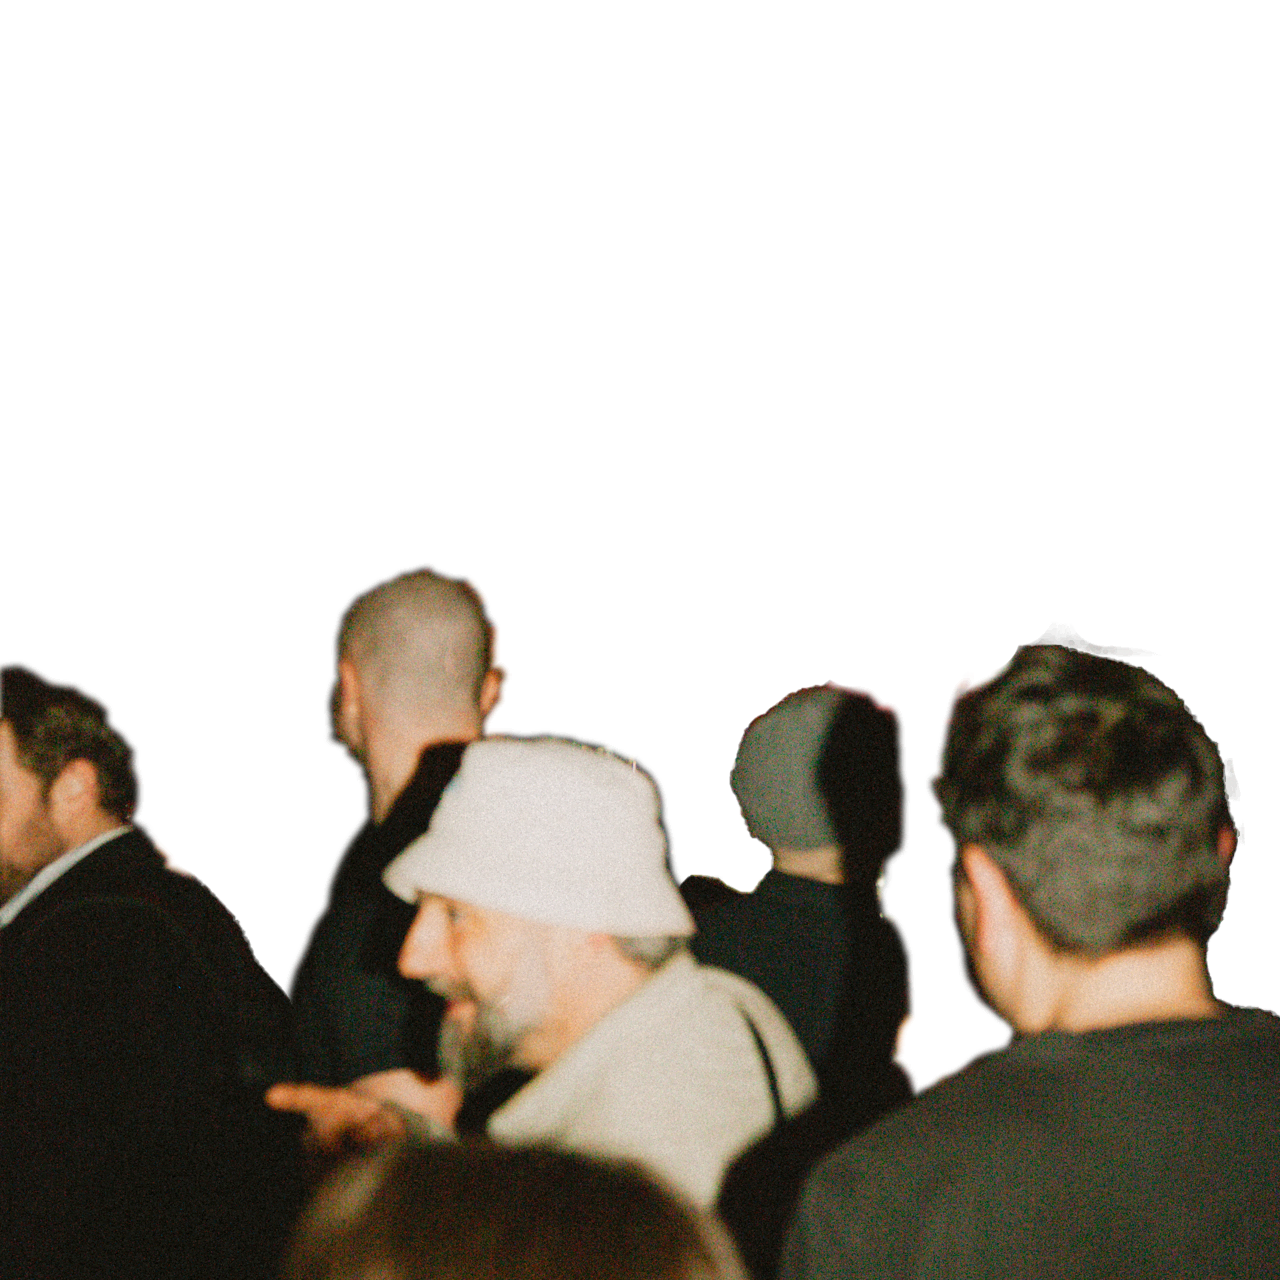
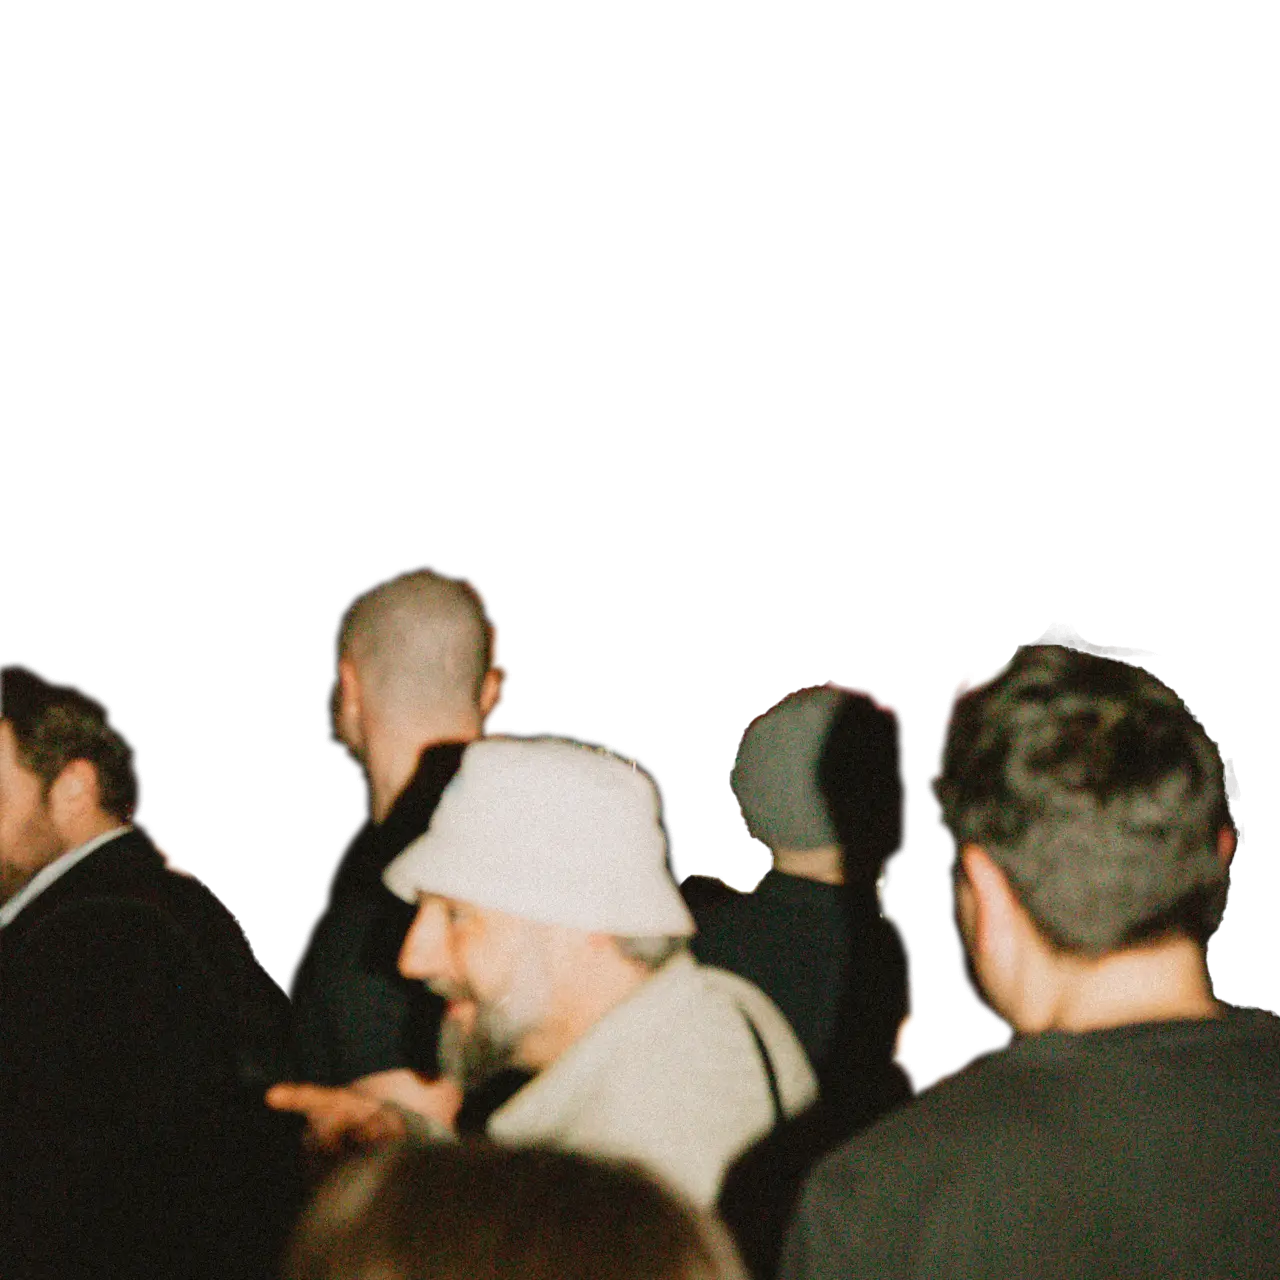
perf: improve Stories page Lighthouse score
- Compress spinne_front.webp: 670 KiB → 94 KiB (-86%)
- Compress spinne_full.webp: 134 KiB → 116 KiB (-13%)
- Fix CLS 0.808: always render .parallax-page (remove v-else) so footer stays in place during SSR
- Add fetchpriority=high preload for LCP image (spinne_front.webp) in useHead()
- Remove color/border-color from theme-class transitions (non-composited paint ops)
- Add explicit width/height to footer logo img to prevent reflow CLS
- Reduce Google Font weights: Montserrat 7→5, Source Sans 3 6→4 (fewer critical path requests)

diff --git a/pages/stories.vue b/pages/stories.vue
@@ -18,7 +18,10 @@ useSeoMeta({
 })
 
 useHead({
-  link: [{ rel: 'canonical', href: 'https://pallas.world/stories' }],
+  link: [
+    { rel: 'canonical', href: 'https://pallas.world/stories' },
+    { rel: 'preload', as: 'image', href: spinneFrontImg, fetchpriority: 'high' },
+  ],
 })
 
 const parallaxPage = ref(null)
@@ -195,7 +198,7 @@ onUnmounted(() => {
     <div v-if="isLoading" class="loading-overlay">
       <div class="loader-spinner"></div>
     </div>
-    <div v-else ref="parallaxPage" class="parallax-page">
+    <div ref="parallaxPage" class="parallax-page">
 
       <!-- BACKGROUND LAYER - spinne_full -->
       <div ref="backgroundLayer" class="parallax-layer background-layer">

diff --git a/components/sections/FooterSection.vue b/components/sections/FooterSection.vue
@@ -22,7 +22,7 @@ const scrollToSection = (sectionId) => {
       <div class="footer-content">
         <!-- PALLAS Info Section -->
         <div class="footer-section brand-section">
-          <img :src="pallasLogo" alt="Pallas.world Logo" class="footer-logo" />
+          <img :src="pallasLogo" alt="Pallas.world Logo" class="footer-logo" width="160" height="48" />
           <p class="theme-text-secondary footer-slogan">Everybody Welcome</p>
           <div class="footer-address theme-text-secondary">
             <p>

diff --git a/src/components/sections/FooterSection.vue b/src/components/sections/FooterSection.vue
@@ -23,7 +23,7 @@ const scrollToSection = (sectionId) => {
       <div class="footer-content">
         <!-- PALLAS Info Section -->
         <div class="footer-section brand-section">
-          <img :src="pallasLogo" alt="Pallas.world Logo" class="footer-logo" />
+          <img :src="pallasLogo" alt="Pallas.world Logo" class="footer-logo" width="160" height="48" />
           <p class="theme-text-secondary footer-slogan">Everybody Welcome</p>
           <div class="footer-address theme-text-secondary">
             <p>

diff --git a/src/assets/styles/themes.css b/src/assets/styles/themes.css
@@ -68,8 +68,6 @@
 .theme-text-primary,
 .theme-text-secondary,
 .theme-text-muted {
-  transition: background var(--theme-transition-duration) ease, 
-              border-color var(--theme-transition-duration) ease, 
-              color var(--theme-transition-duration) ease, 
+  transition: background var(--theme-transition-duration) ease,
               box-shadow var(--theme-transition-duration) ease;
 }

diff --git a/nuxt.config.ts b/nuxt.config.ts
@@ -74,8 +74,8 @@ export default defineNuxtConfig({
   googleFonts: {
     families: {
       'Krona One': true,
-      'Montserrat': [100, 200, 300, 400, 500, 600, 700],
-      'Source Sans 3': [200, 300, 400, 500, 600, 700],
+      'Montserrat': [300, 400, 500, 600, 700],
+      'Source Sans 3': [300, 400, 600, 700],
     },
     display: 'swap',
     preconnect: true,
